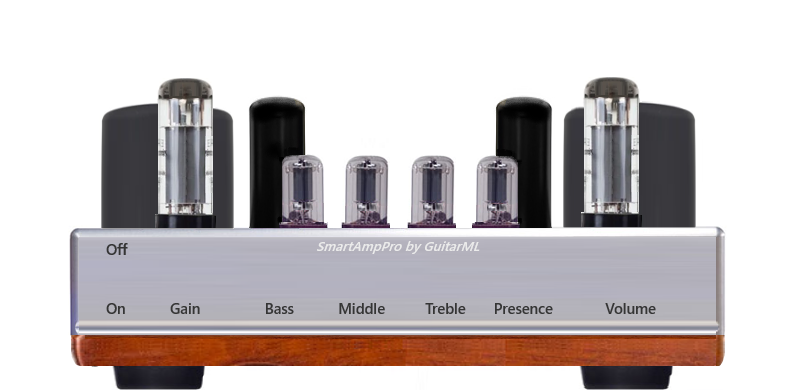
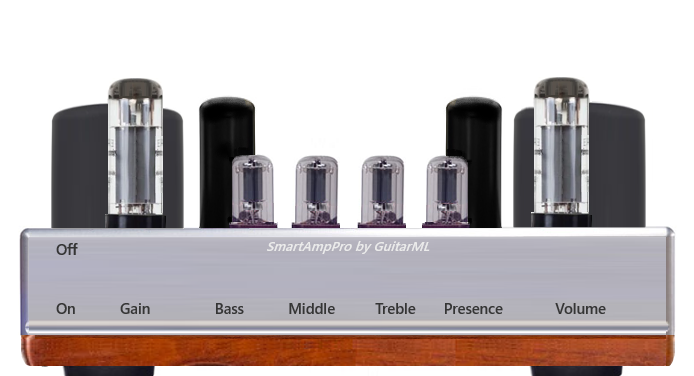
Reversed timer, adjusted GUI size and layout, added example batch training file

diff --git a/Source/PluginEditor.cpp b/Source/PluginEditor.cpp
@@ -10,6 +10,8 @@
 
 #include "PluginProcessor.h"
 #include "PluginEditor.h"
+#include <stdio.h>
+
 
 //==============================================================================
 SmartAmpProAudioProcessorEditor::SmartAmpProAudioProcessorEditor (SmartAmpProAudioProcessor& p)
@@ -126,7 +128,7 @@ SmartAmpProAudioProcessorEditor::SmartAmpProAudioProcessorEditor (SmartAmpProAud
     ampMasterKnob.setDoubleClickReturnValue(true, -12.0);
 
     // Size of plugin GUI
-    setSize(790, 390);
+    setSize(694, 376);
     // Load the preset model from the project resources
     if (processor.custom_tone == 0) {
         processor.loadDefault();
@@ -189,21 +191,21 @@ void SmartAmpProAudioProcessorEditor::resized()
 {
     // This is generally where you'll want to lay out the positions of any
     // subcomponents in your editor..
-    recordButton.setBounds(590, 20, 125, 25);
-    timerLabel.setBounds(350, 20, 70, 25);
-    helpLabel.setBounds(240, 50, 300, 25);
-    loadButton.setBounds(70, 20, 125, 25);
-    modelLabel.setBounds(70, 45, 400, 25);
+    recordButton.setBounds(540, 15, 125, 25);
+    timerLabel.setBounds(300, 10, 70, 25);
+    helpLabel.setBounds(190, 50, 300, 25);
+    loadButton.setBounds(20, 15, 125, 25);
+    modelLabel.setBounds(20, 45, 400, 25);
     // Amp Widgets
-    ampPresenceKnob.setBounds(495, 242, 55, 75);
-    ampBassKnob.setBounds(253, 242, 55, 75);
-    ampMidKnob.setBounds(333, 242, 55, 75);
-    ampTrebleKnob.setBounds(418, 242, 55, 75);
-    ampGainKnob.setBounds(150, 225, 75, 95);
-    ampMasterKnob.setBounds(592, 225, 75, 95);
+    ampPresenceKnob.setBounds(445, 242, 55, 75);
+    ampBassKnob.setBounds(213, 242, 55, 75);
+    ampMidKnob.setBounds(283, 242, 55, 75);
+    ampTrebleKnob.setBounds(368, 242, 55, 75);
+    ampGainKnob.setBounds(100, 225, 75, 95);
+    ampMasterKnob.setBounds(542, 225, 75, 95);
 
-    ampOnButton.setBounds(104, 259, 15, 25);
-    ampLED.setBounds(686, 240, 15, 25);
+    ampOnButton.setBounds(54, 259, 15, 25);
+    ampLED.setBounds(636, 240, 15, 25);
 }
 
 void SmartAmpProAudioProcessorEditor::loadButtonClicked()
@@ -251,10 +253,10 @@ void SmartAmpProAudioProcessorEditor::recordButtonClicked() {
     if (processor.recording == 0) {
         processor.recording = 1;
         recordButton.setColour(TextButton::buttonColourId, Colours::red);
-        recordButton.setButtonText("Start Capture");
-        timer_start();
+        recordButton.setButtonText("Stop Capture");
         timerLabel.setText(minutes + ":0" + seconds, juce::NotificationType::sendNotification);
         timerLabel.setVisible(1);
+        timer_start();
         helpLabel.setText("Get Ready for Tone Capture..", juce::NotificationType::sendNotification);
         helpLabel.setVisible(1);
 
@@ -263,12 +265,12 @@ void SmartAmpProAudioProcessorEditor::recordButtonClicked() {
         processor.audio_recorder.stopRecording();
         processor.recording = 0;
         recordButton.setColour(TextButton::buttonColourId, Colours::black);
-        recordButton.setButtonText("Record");
+        recordButton.setButtonText("Start Capture");
         timerLabel.setText(minutes + ":" + seconds, juce::NotificationType::sendNotification);
         timer_stop();
         timerLabel.setVisible(0);
         helpLabel.setVisible(0);
-        minutes = "-0";
+        minutes = "";
         seconds = "5";
 
 
@@ -304,19 +306,20 @@ void SmartAmpProAudioProcessorEditor::timer_start()
 void SmartAmpProAudioProcessorEditor::timer_stop()
 {
     stopTimer();
-    t = -5;
+    t = 185;
 }
 
 void SmartAmpProAudioProcessorEditor::timerCallback()
 {
     //std::cout << "time tick" << std::endl;
-    t += 1;
-    seconds = std::to_string(std::abs(t % 60));
+    t -= 1;
+    seconds = std::to_string(t % 60);
     minutes = std::to_string(t / 60);
     //t_label = std::to_string(t);
-    if (t < 0) {
-        minutes = "-" + minutes;
-    } else if (t == 0) {
+    if (t > 180) {
+        minutes = "";
+        seconds = std::to_string(std::abs(t - 180));
+    } else if (t == 180) {
         processor.audio_recorder.startRecording();
         helpLabel.setText("Begin 3 minutes of guitar playing!", juce::NotificationType::sendNotification);
     }
@@ -326,36 +329,39 @@ void SmartAmpProAudioProcessorEditor::timerCallback()
     }
 
     timerLabel.setText(minutes + ":" + seconds, juce::NotificationType::sendNotification);
-    if (t > 179) {
+    if (t < 1) {
         timer_stop();
         processor.audio_recorder.stopRecording();
         processor.recording = 0;
         recordButton.setColour(TextButton::buttonColourId, Colours::black);
         recordButton.setButtonText("Start Capture");
         timer_stop();
-        timerLabel.setText(minutes + ":" + seconds, juce::NotificationType::sendNotification);
+        timerLabel.setText(":5", juce::NotificationType::sendNotification);
+        t = 185;
         timerLabel.setVisible(0);
         helpLabel.setVisible(0);
         helpLabel.setText("Begin 3 minutes of guitar playing!", juce::NotificationType::sendNotification);
-        //system() // call to training program
+        minutes = "";
+        seconds = "5";
+        //system("C:/Users/KBloemer/Desktop/Archive/SmartAmpPro/train.bat"); // call to training program
 
-    } else if (t == 10) {
-        helpLabel.setText("Play some chords", juce::NotificationType::sendNotification);
-    } else if (t == 30) {
-        helpLabel.setText("Play some notes", juce::NotificationType::sendNotification);
-    } else if (t == 50) {
-        helpLabel.setText("Play your favorite song", juce::NotificationType::sendNotification);
-    } else if (t == 80) {
-        helpLabel.setText("Play quiet", juce::NotificationType::sendNotification);
-    } else if (t == 100) {
-        helpLabel.setText("Play loud!", juce::NotificationType::sendNotification);
-    } else if (t == 120) {
-        helpLabel.setText("Make some mistakes", juce::NotificationType::sendNotification);
-    } else if (t == 130) {
-        helpLabel.setText("Play some high notes", juce::NotificationType::sendNotification);
-    } else if (t == 150) {
-        helpLabel.setText("Play some low notes", juce::NotificationType::sendNotification);
     } else if (t == 170) {
+        helpLabel.setText("Play some chords", juce::NotificationType::sendNotification);
+    } else if (t == 150) {
+        helpLabel.setText("Play some notes", juce::NotificationType::sendNotification);
+    } else if (t == 130) {
+        helpLabel.setText("Play your favorite song", juce::NotificationType::sendNotification);
+    } else if (t == 100) {
+        helpLabel.setText("Play quiet", juce::NotificationType::sendNotification);
+    } else if (t == 80) {
+        helpLabel.setText("Play loud!", juce::NotificationType::sendNotification);
+    } else if (t == 60) {
+        helpLabel.setText("Make some mistakes", juce::NotificationType::sendNotification);
+    } else if (t == 50) {
+        helpLabel.setText("Play some high notes", juce::NotificationType::sendNotification);
+    } else if (t == 30) {
+        helpLabel.setText("Play some low notes", juce::NotificationType::sendNotification);
+    } else if (t == 10) {
         helpLabel.setText("Almost done.. Let it ring out!", juce::NotificationType::sendNotification);
     }
 }

diff --git a/Source/PluginProcessor.cpp b/Source/PluginProcessor.cpp
@@ -25,8 +25,8 @@ SmartAmpProAudioProcessor::SmartAmpProAudioProcessor()
 
 #endif
 {
-    loader.load_json("C:/Users/rache/Desktop/dev/SmartAmpPro/models/gran_con4_hs24_in120d.json");
-    //loader.load_json("C:/Users/KBloemer/Desktop/Archive/SmartAmpPro/models/gran_con4_hs24_in120d.json");
+    //loader.load_json("C:/Users/rache/Desktop/dev/SmartAmpPro/models/gran_con4_hs24_in120d.json");
+    loader.load_json("C:/Users/KBloemer/Desktop/Archive/SmartAmpPro/models/gran_con4_hs24_in120d.json");
 
     LSTM.setParams(loader.hidden_size, loader.conv1d_kernel_size, loader.conv1d_1_kernel_size,
         loader.conv1d_num_channels, loader.conv1d_1_num_channels, loader.conv1d_bias_nc,
@@ -199,9 +199,9 @@ void SmartAmpProAudioProcessor::loadDefault()
 {
     this->suspendProcessing(true);
 
-    loader.load_json("C:/Users/rache/Desktop/dev/SmartAmpPro/models/gran_con4_hs24_in120d.json");
-    //loader.load_json("C:/Users/KBloemer/Desktop/Archive/SmartAmpPro/models/gran_con4_hs24_in120d.json");
-                                                                                                          //loader.load_json(BinaryData::nol_small_120_json);
+    //loader.load_json("C:/Users/rache/Desktop/dev/SmartAmpPro/models/gran_con4_hs24_in120d.json");
+    loader.load_json("C:/Users/KBloemer/Desktop/Archive/SmartAmpPro/models/gran_con4_hs24_in120d.json");
+
     LSTM.setParams(loader.hidden_size, loader.conv1d_kernel_size, loader.conv1d_1_kernel_size,
         loader.conv1d_num_channels, loader.conv1d_1_num_channels, loader.conv1d_bias_nc,
         loader.conv1d_1_bias_nc, loader.conv1d_kernel_nc, loader.conv1d_1_kernel_nc,

diff --git a/Source/PluginEditor.h b/Source/PluginEditor.h
@@ -71,9 +71,9 @@ private:
     void timerCallback() override;
     void timer_start();
     void timer_stop();
-    int t = -5;
+    int t = 185;
     String seconds = "5";
-    String minutes = "-0";
+    String minutes = "";
 
     JUCE_DECLARE_NON_COPYABLE_WITH_LEAK_DETECTOR (SmartAmpProAudioProcessorEditor)
 };
